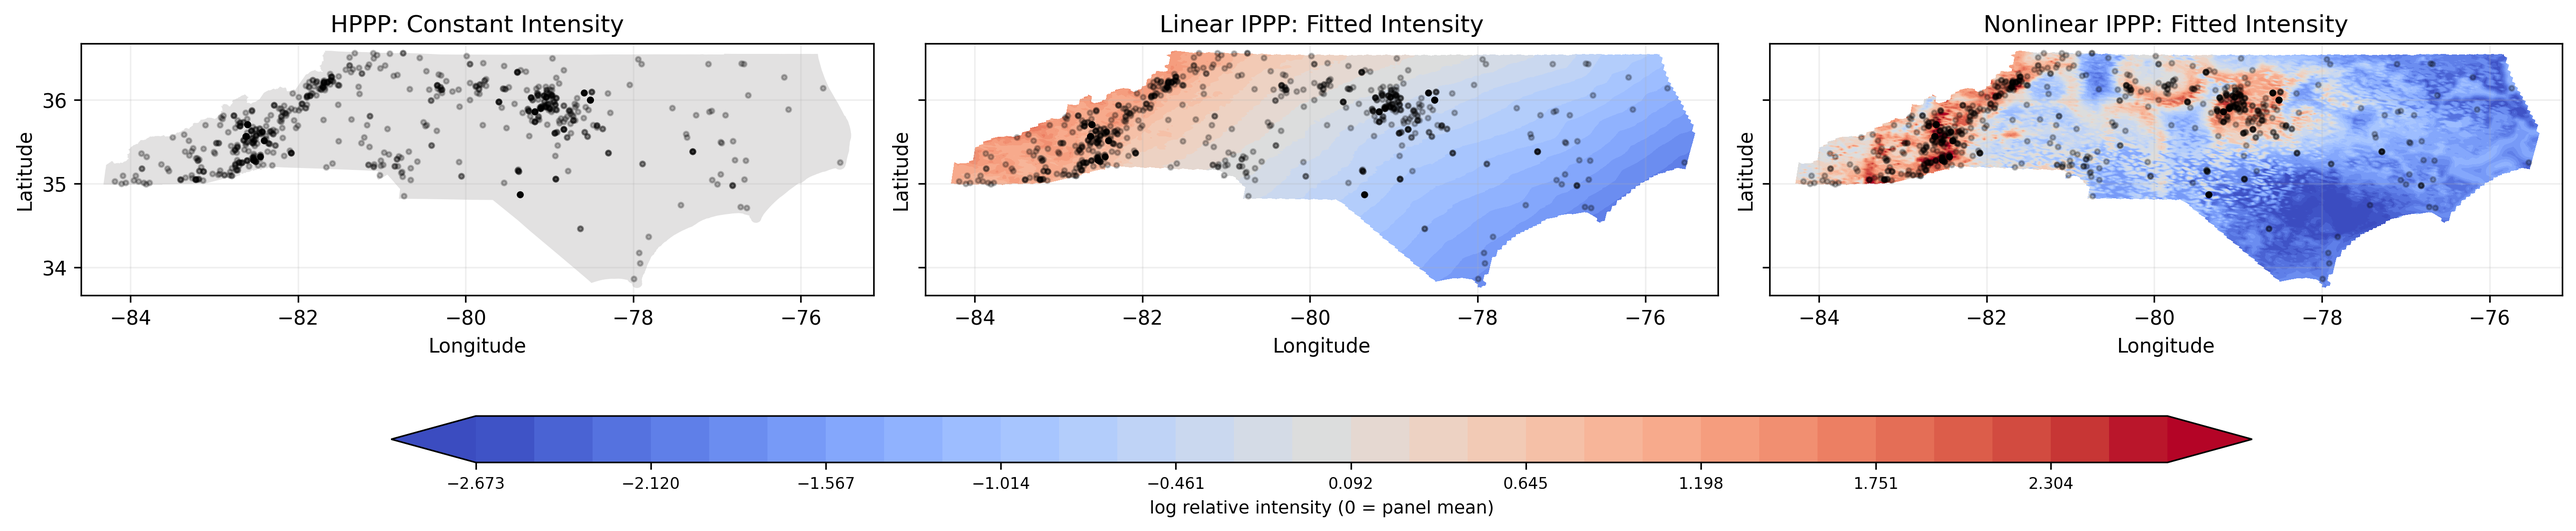
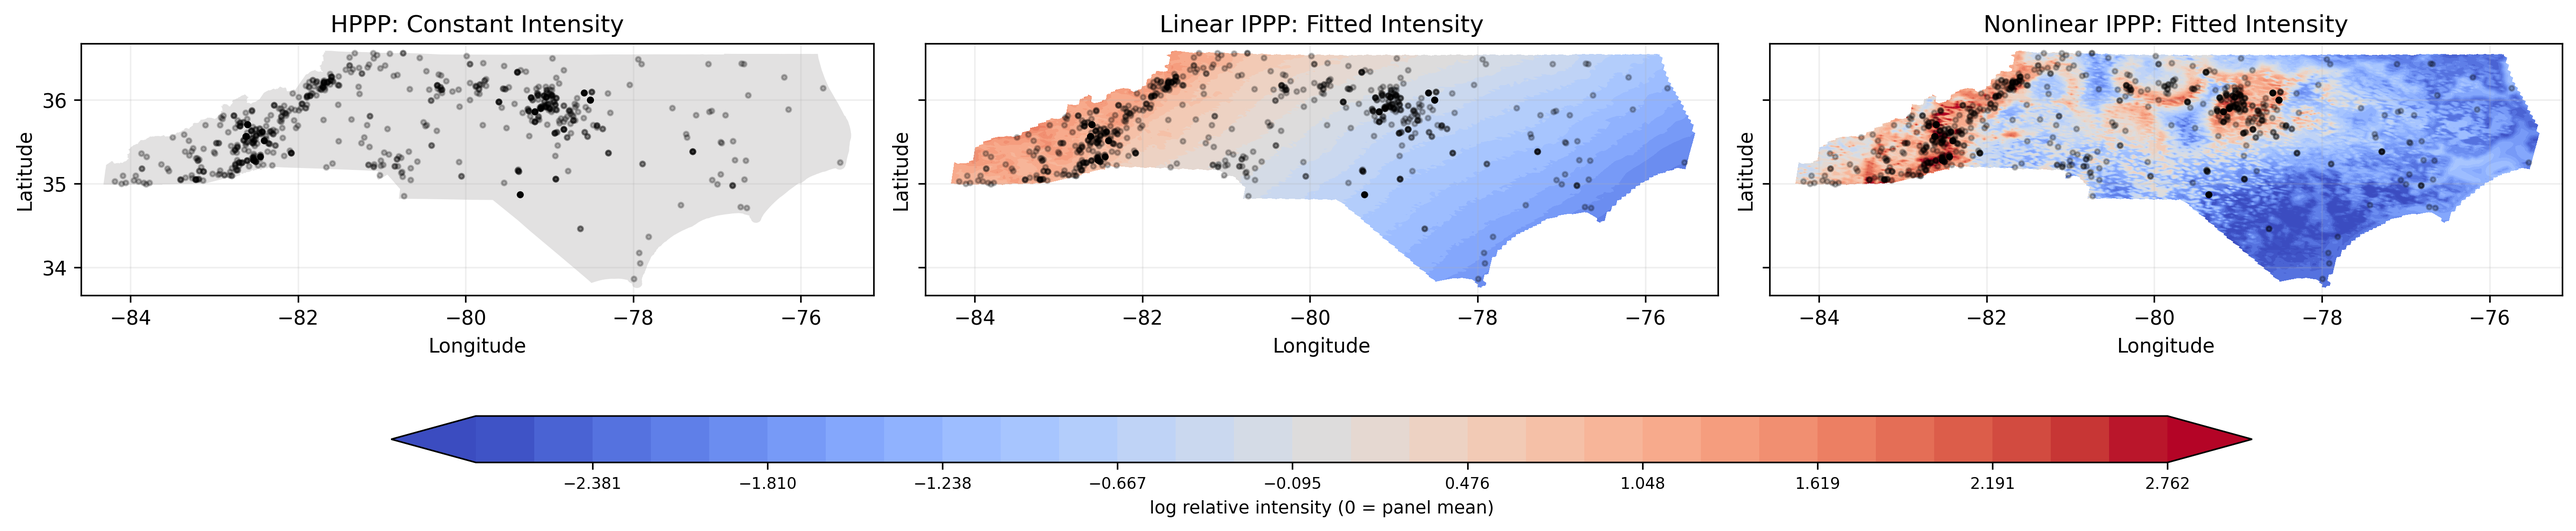
update to post

diff --git a/jekyll_setup.md b/jekyll_setup.md
@@ -51,9 +51,5 @@
 
 This setup produces full, SEO-friendly static HTML pages while allowing you to manage your layout with a templating language. If you prefer another static site generator (like Hugo, Eleventy, etc.), the setup process is similar—install the tool, create a new project, and customize templates.
 
----
 
-```
-setx PATH "C:\Ruby33-x64\bin;C:\Python312\Scripts\;C:\Python312\;C:\Program Files (x86)\Intel\Intel(R) Management Engine Components\iCLS\;C:\Program Files\Intel\Intel(R) Management Engine Components\iCLS\;C:\Program Files\Intel\WiFi\bin\;C:\Program Files\Common Files\Intel\WirelessCommon\;C:\Program Files (x86)\Intel\Intel(R) Management Engine Components\DAL;C:\Program Files\Intel\Intel(R) Management Engine Components\DAL;C:\Program Files (x86)\Intel\Intel(R) Management Engine Components\IPT;C:\Program Files\Intel\Intel(R) Management Engine Components\IPT;C:\Users\bento\AppData\Local\Programs\Python\Python310;C:\Users\bento\AppData\Local\Programs\Python\Python310\Scripts;C:\Program Files\dotnet\;C:\Program Files\Git\cmd;C:\Program Files\ISC BIND 9\bin;C:\Program Files\wkhtmltopdf\bin\wkhtmltopdf.exe;C:\ProgramData\chocolatey\bin;C:\ProgramData\chocolatey\lib\ffmpeg\tools\ffmpeg\bin;%SystemRoot%\system32;%SystemRoot%;%SystemRoot%\System32\Wbem;%SYSTEMROOT%\System32\WindowsPowerShell\v1.0\;%SYSTEMROOT%\System32\OpenSSH\;C:\Program Files\MySQL\MySQL Shell 8.0\bin\;C:\Users\bento\AppData\Local\Programs\Quarto\bin;C:\Users\bento\miniconda3;C:\Users\bento\miniconda3\Library\mingw-w64\bin;C:\Users\bento\miniconda3\Library\usr\bin;C:\Users\bento\miniconda3\Library\bin;C:\Users\bento\miniconda3\Scripts;C:\Program Files\Microsoft SQL Server\Client SDK\ODBC\170\Tools\Binn\;C:\Program Files\PuTTY\;C:\Users\bento\AppData\Local\Programs\Quarto;C:\Users\bento\AppData\Local\Programs\Microsoft VS Code\bin;C:\Users\bento\.dotnet\tools;C:\Users\bento\AppData\Roaming\TinyTeX\bin\windows;C:\Program Files\Graphviz\bin\;C:\Users\bento\AppData\Local\Microsoft\WindowsApps;"
-```
 

diff --git a/_blog_posts/wood-thrush-nc.md b/_blog_posts/wood-thrush-nc.md
@@ -232,7 +232,7 @@ I also fit models with static raster covariates. The documented static covariate
 
 <img class="sdm-eda-img" src="{{ site.baseurl }}/assets/images/raster_previews/waterbody_distance_preview.png" alt="Distance to nearest waterbody raster preview">
 
-The static covariate run improves full-window likelihood. The nonlinear covariate model improves it the most, from $-16454.7522$ for the HPPP to $-15518.5381$. The spatial block diagnostic is more restrained. The linear static covariate model has held-out total $-16303.8328$, which is better than the HPPP but worse than the coordinate-only linear model. The nonlinear covariate model has held-out total $-16412.7032$ and is poorly calibrated in total-count simulation: the observed count is 825, while the simulated mean is 709.44.
+The static covariate run improves full-window likelihood. The nonlinear covariate model improves it the most, from $-16454.7522$ for the HPPP to $-15517.5254$. The spatial block diagnostic is more restrained. The linear static covariate model has held-out total $-16308.2251$, which is better than the HPPP but worse than the coordinate-only linear model. The nonlinear covariate model has held-out total $-16422.6430$ and is poorly calibrated in total-count simulation: the observed count is 825, while the simulated mean is 715.95.
 
 The justified conclusion is that these covariates improve in-sample fit, especially for the nonlinear model, but they do not by themselves solve the validation problem. With presence-only reported observations, covariates, broad geography, observer behavior, and reporting hotspots can be confounded.
 

diff --git a/README.md b/README.md
@@ -1,3 +1,22 @@
 # Benton Tripp's Portfolio & Blog
 
 Check out my personal portfolio and blog here: [https://benton-tripp.github.io/](https://benton-tripp.github.io/)
+
+## Local development
+
+This Jekyll site uses Bundler with repo-local gems:
+
+```powershell
+bundle config set path vendor/bundle
+bundle install
+bundle exec jekyll serve
+```
+
+On Windows, make sure `ruby` and `bundle` resolve to a normal RubyInstaller/DevKit Ruby, not an embedded application Ruby. Check with:
+
+```powershell
+where ruby
+where bundle
+```
+
+If these point to `C:\Program Files\ServiceNow\agent-client-collector\embedded\...`, move your RubyInstaller `bin` directory earlier on `PATH`, for example `C:\Ruby33-x64\bin`, then open a new terminal and rerun `bundle install`.
